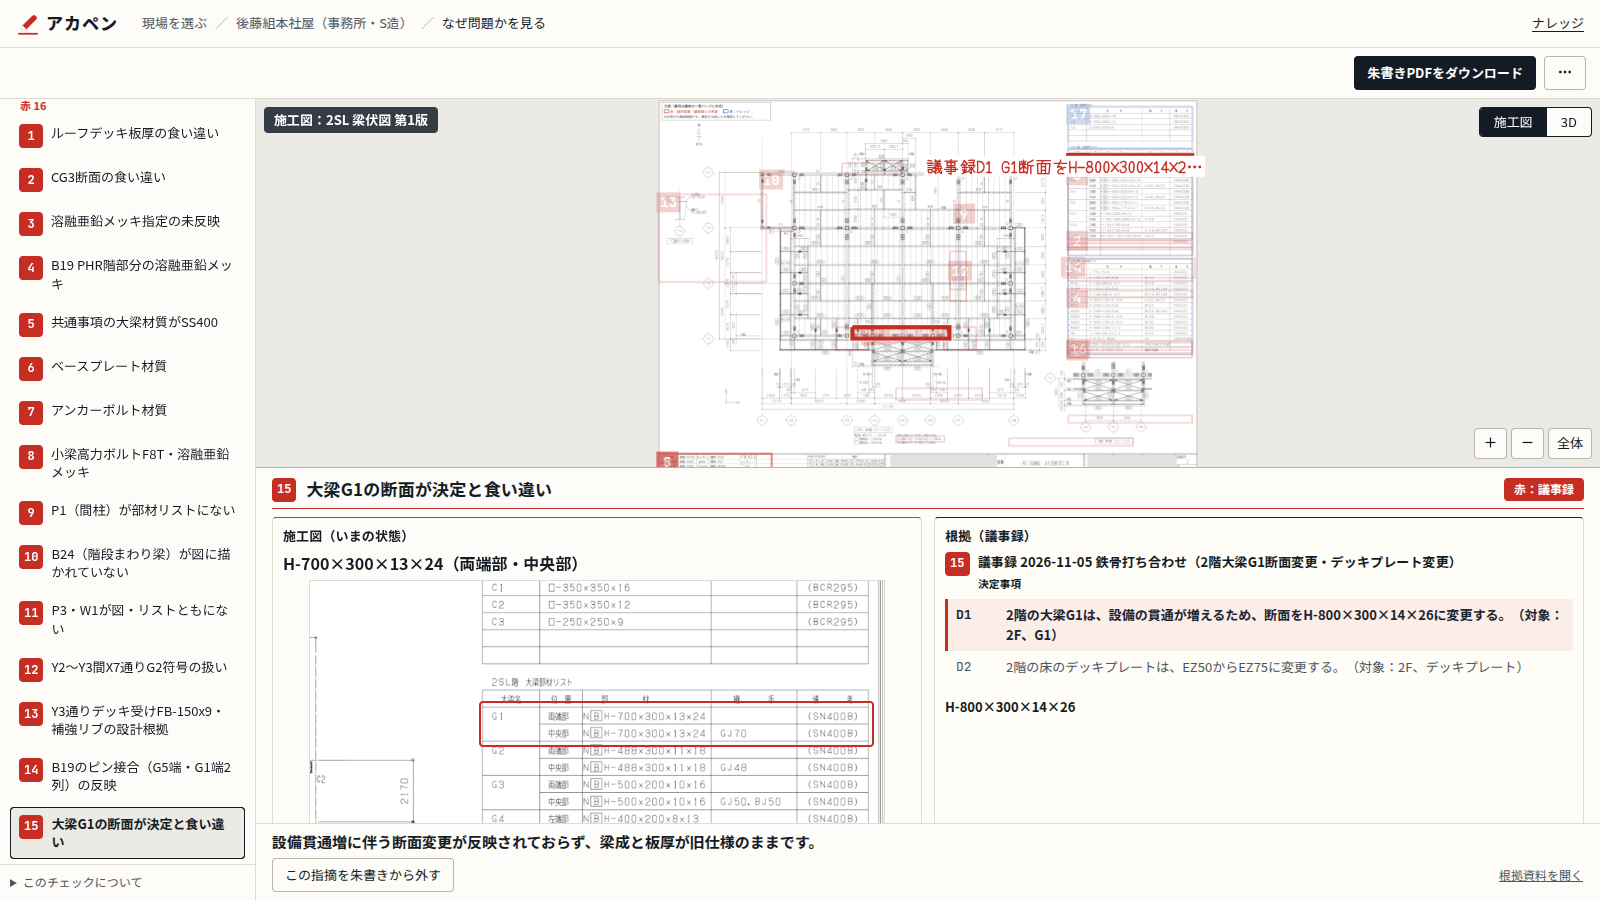
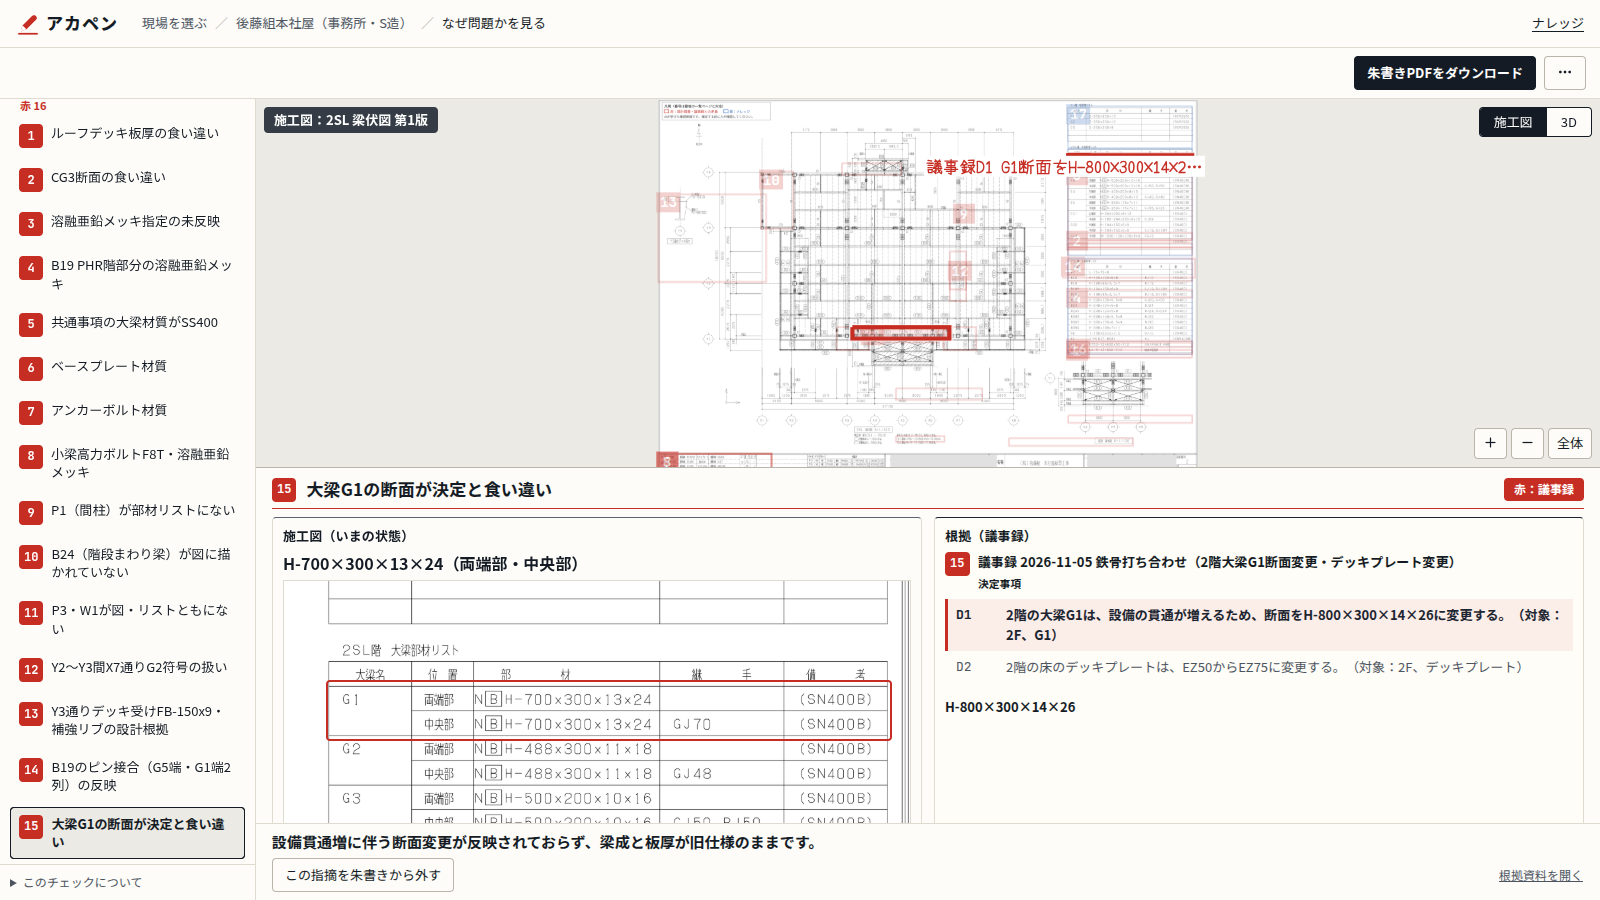
動画に映る所を直す：一覧の画像、切り抜きの倍率、外観の説明
- 一覧の本社屋は作っておいた画像を出す。3Dを描く間に画面が止まらない
- 件数のカウントアップが途中の数で残らないようにする
- ④の施工図の切り抜きを根拠と同じ幅にし、読める倍率にする。図面の画像を 220dpi にする
- 「外観の要確認」を「外観で仮の値にした所」にして説明を足す

Changed region(s): [[0.1875, 0.6533, 0.5938, 0.9333]]

diff --git a/components/check/ComparePane.tsx b/components/check/ComparePane.tsx
@@ -16,10 +16,12 @@ import styles from "./check.module.css";
 
 type Numbered = Finding & { number: number };
 
-// 切り抜きの枠の縦横比
-const CROP_ASPECT = 2;
-const CROP_PADDING = 1.5;
+// 切り抜きの枠の縦横比。右の根拠と同じ幅で、文字が読める倍率にする
+const CROP_ASPECT = 2.4;
+const CROP_PADDING = 1.3;
 const MIN_WINDOW = 0.1;
+// 切り抜く幅の上限（図面の幅に対する比）。これより広い指摘は、枠の始まりを見せる
+const MAX_WIDE = 0.26;
 
 // 該当箇所のまわりを、同じ比率で図面から切り出して見せる。余白が出ないよう図面の中に収める
 function SheetCrop({
@@ -49,8 +51,15 @@ function SheetCrop({
     wide /= high;
     high = 1;
   }
-  const left = Math.min(1 - wide, Math.max(0, (x0 + x1 - wide) / 2));
-  const top = Math.min(1 - high, Math.max(0, (y0 + y1 - high) / 2));
+  if (wide > MAX_WIDE) {
+    high *= MAX_WIDE / wide;
+    wide = MAX_WIDE;
+  }
+  // 枠が切り抜きより大きいときは、枠の左上から見せる
+  const place = (from: number, to: number, size: number) =>
+    Math.min(1 - size, Math.max(0, to - from > size ? from - size * 0.06 : (from + to - size) / 2));
+  const left = place(x0, x1, wide);
+  const top = place(y0, y1, high);
   return (
     <div className={styles.sheetCrop} style={{ aspectRatio: CROP_ASPECT }}>
       {/* 図面の一部を拡大して切り出すので、next/image の最適化は使わない */}

diff --git a/components/screens/ModelConsole.tsx b/components/screens/ModelConsole.tsx
@@ -335,7 +335,7 @@ export default function ModelConsole({
           )}
           {model.architecture && (
             <button className={panel.clear} onClick={() => setDialog("architecture")}>
-              外観の要確認 {model.architecture.checks.length} 件
+              外観で仮の値にした所 {model.architecture.checks.length} か所
             </button>
           )}
         </div>
@@ -428,7 +428,10 @@ export default function ModelConsole({
             )}
             {dialog === "architecture" && model.architecture && (
               <div className={appStyles.checks}>
-                <h3>外観の要確認 {model.architecture.checks.length} 件</h3>
+                <h3>外観で仮の値にした所 {model.architecture.checks.length} か所</h3>
+                <p className={appStyles.fine}>
+                  意匠図に寸法の記入がなく、3Dの見た目のために仮の値で描いた所や、読み取りを確かめたい所です。施工図のチェックには影響しません。
+                </p>
                 <p className={appStyles.fine}>{model.architecture.source}</p>
                 <ul>
                   {model.architecture.checks.map((item, index) => (

diff --git a/lib/buildings.ts b/lib/buildings.ts
@@ -1,6 +1,6 @@
 // 物件の一覧（サーバー側）。デモの本社屋と、画面から登録した物件をまとめて扱う
 
-import { readFileSync } from "node:fs";
+import { existsSync, readFileSync } from "node:fs";
 import path from "node:path";
 import type { CheckResult, Finding } from "./check";
 import { isBlue, numbered } from "./findings";
@@ -96,6 +96,8 @@ export type ProjectCard = {
   red: number;
   blue: number;
   thumbnail: Thumbnail | null;
+  // 作っておいた一覧の画像。あれば一覧で3Dを描かない（描く間、画面が止まるため）
+  image: string | null;
 };
 
 // 図面ごとの最新の結果。同じ図面を何度もチェックしても、一番新しい結果だけを使う（朱書きから消した指摘は除く）。
@@ -167,5 +169,8 @@ export function cardOf(building: Building): ProjectCard {
     red: all.length - blue,
     blue,
     thumbnail: thumbnailOf(model),
+    image: existsSync(path.join(/* turbopackIgnore: true */ process.cwd(), "public", "thumbs", `${slug}.jpg`))
+      ? `/thumbs/${slug}.jpg`
+      : null,
   };
 }

diff --git a/components/CountUp.tsx b/components/CountUp.tsx
@@ -25,7 +25,15 @@ export default function CountUp({ value }: { value: number }) {
       setShown(current.current);
       if (t < 1) frame = requestAnimationFrame(step);
     });
-    return () => cancelAnimationFrame(frame);
+    // 描画が止まっていても（裏のタブなど）、途中の数のまま残さない
+    const finish = setTimeout(() => {
+      current.current = value;
+      setShown(value);
+    }, DURATION + 200);
+    return () => {
+      cancelAnimationFrame(frame);
+      clearTimeout(finish);
+    };
   }, [value]);
 
   return <span aria-label={String(value)}>{shown}</span>;

diff --git a/components/screens/ProjectList.tsx b/components/screens/ProjectList.tsx
@@ -26,6 +26,14 @@ const dateFormat = new Intl.DateTimeFormat("ja-JP", {
 });
 
 function Thumb({ card }: { card: ProjectCard }) {
+  if (card.image) {
+    return (
+      <div className={styles.thumb}>
+        {/* eslint-disable-next-line @next/next/no-img-element -- 作っておいた画像をそのまま見せる */}
+        <img className={styles.thumbImage} src={card.image} alt="" />
+      </div>
+    );
+  }
   if (!card.thumbnail) return <div className={styles.thumb}>3Dなし</div>;
   const { viewBox, columns, beams } = card.thumbnail;
   return (

diff --git a/components/check/check.module.css b/components/check/check.module.css
@@ -1081,9 +1081,7 @@
 
 .sheetCrop {
   position: relative;
-  max-width: 100%;
-  max-height: 32vh;
-  margin: 0 auto;
+  width: 100%;
   overflow: hidden;
   border: 1px solid var(--line);
   background: #fff;

diff --git a/scripts/check/check_upload.py b/scripts/check/check_upload.py
@@ -51,7 +51,7 @@ WORKERS = 3
 MESSAGE_FILES = {"design": "review", "minutes": "minutes", "knowledge": "knowledge"}
 CHECK_LABELS = {"design": "設計図書との照合（赤）", "minutes": "議事録との照合（赤）", "knowledge": "ナレッジの確認（青）"}
 MAX_PAGES = 40
-PAGE_DPI = 130
+PAGE_DPI = 220
 CROP_DPI = 150
 CROP_MARGIN = 45
 
